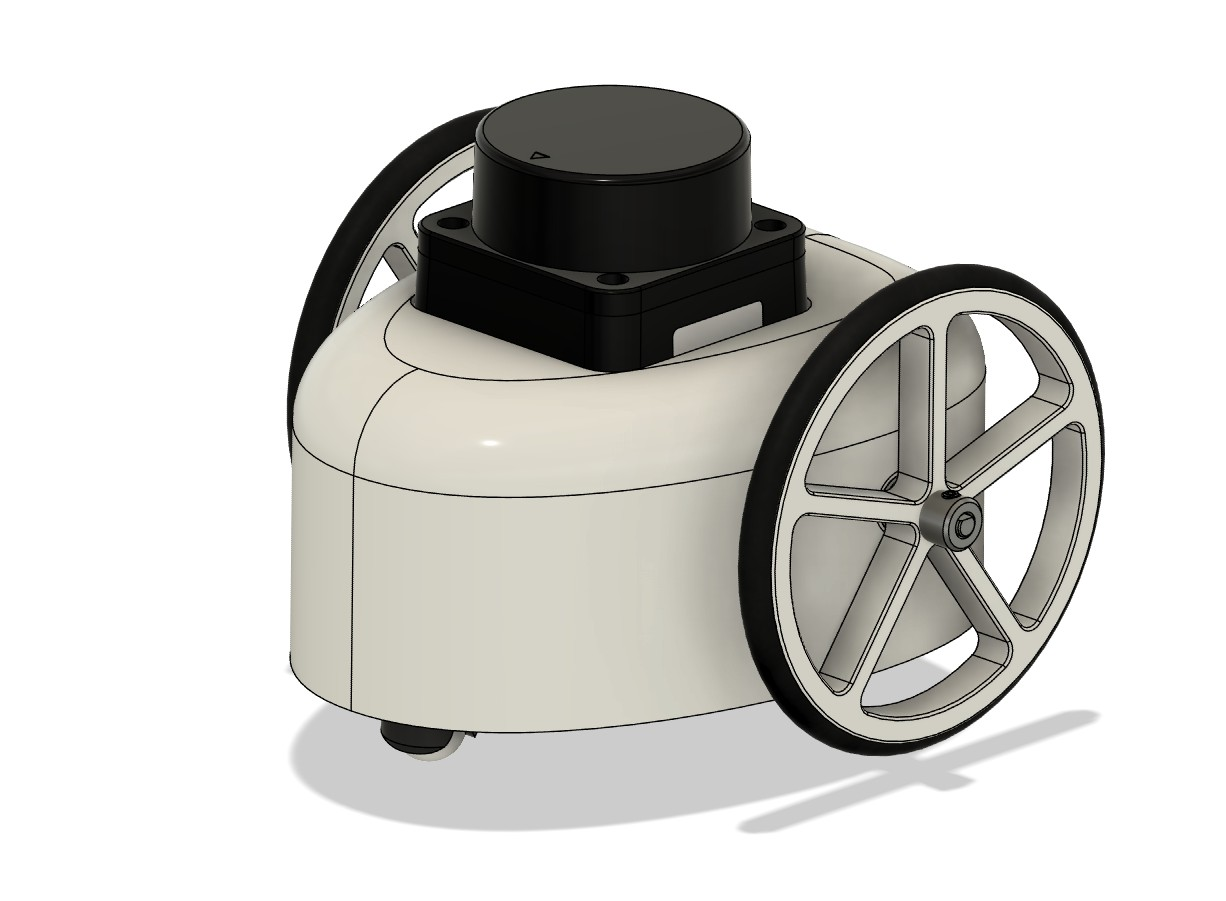
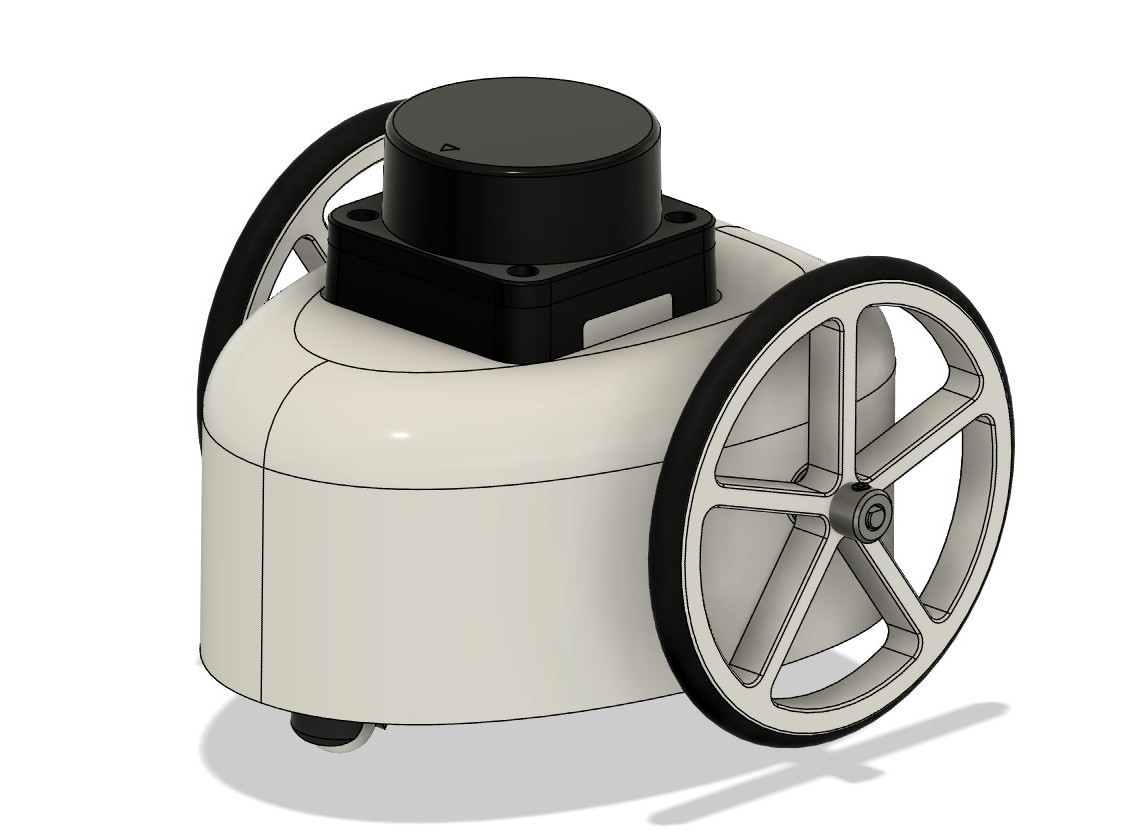
Add README and robot footprint

Changed region(s): [[0.154, 0.0934, 0.9243, 0.9964], [0.4005, 0.2802, 0.5238, 0.3425], [0.3697, 0.5293, 0.4621, 0.5605]]

diff --git a/README.md b/README.md
@@ -1,0 +1,44 @@
+# Palmbot
+[![CI status.](https://github.com/dchoi98/palmbot/actions/workflows/ci.yaml/badge.svg)](https://github.com/dchoi98/palmbot/actions/workflows/ci.yaml)
+
+Palmbot is a palm-sized differential-drive robot built on ROS 2, measuring 9.2 cm long, 9.6 cm wide, and 7.6 cm tall. The goal is a robot that maps a room with LiDAR, navigates on its own, and docks on a wireless charger when its battery runs low. Autonomous navigation works in simulation, and hardware is in progress.
+
+![CAD model of Palmbot.](images/palmbot.jpg)
+
+## Project Status
+
+| Phase | Description | Status |
+| :---: | --- | :---: |
+| 1 | CAD model and autonomous navigation in simulation | Done |
+| 2 | Breadboard prototype, firmware, and PCB design | Next |
+| 3 | Robot assembly and odometry evaluation | Planned |
+| 4 | SLAM and navigation on hardware | Planned |
+| 5 | Autonomous docking with wireless charging station | Planned |
+
+<figure>
+  <img src="images/navigation.gif" alt="Palmbot navigating autonomously in simulation.">
+  <figcaption>Palmbot navigating autonomously in simulation. Gazebo is on the left, while RViz on the right shows the map and costmap.</figcaption>
+</figure>
+
+## Repository Layout
+```
+palmbot/
+├── hardware/                 # Hardware design and manufacturing files
+│   └── cad/                  # 3D CAD models for the robot chassis and mechanical components
+├── images/                   # Documentation assets (renders, GIFs, diagrams)
+└── ros2/                     # ROS 2 packages for simulation, description, and navigation
+    ├── palmbot_description/  # Robot physical & visual description
+    │   ├── launch/           # Launch files to spawn and visualize the robot
+    │   └── urdf/             # URDF/Xacro files defining geometry, joints, and sensors
+    ├── palmbot_navigation/   # Autonomous navigation & mapping stack
+    │   ├── config/           # Nav2 parameters, costmaps, planners, and SLAM configs
+    │   └── launch/           # Launch files to start navigation and mapping nodes
+    └── palmbot_simulation/   # Gazebo simulation environment
+        ├── config/           # Simulation-specific parameter overrides
+        ├── launch/           # Launch files to initialize the Gazebo simulation
+        ├── rviz/             # RViz configuration files for data visualization
+        └── worlds/           # Gazebo world files (maps, obstacles, environment)
+```
+
+## Licensing
+The contents of `hardware/` are licensed under CERN-OHL-S-2.0. This document and the contents of `docs/` are licensed under CC BY-SA 4.0. All other content in this repository is licensed under GPL-3.0-or-later.
